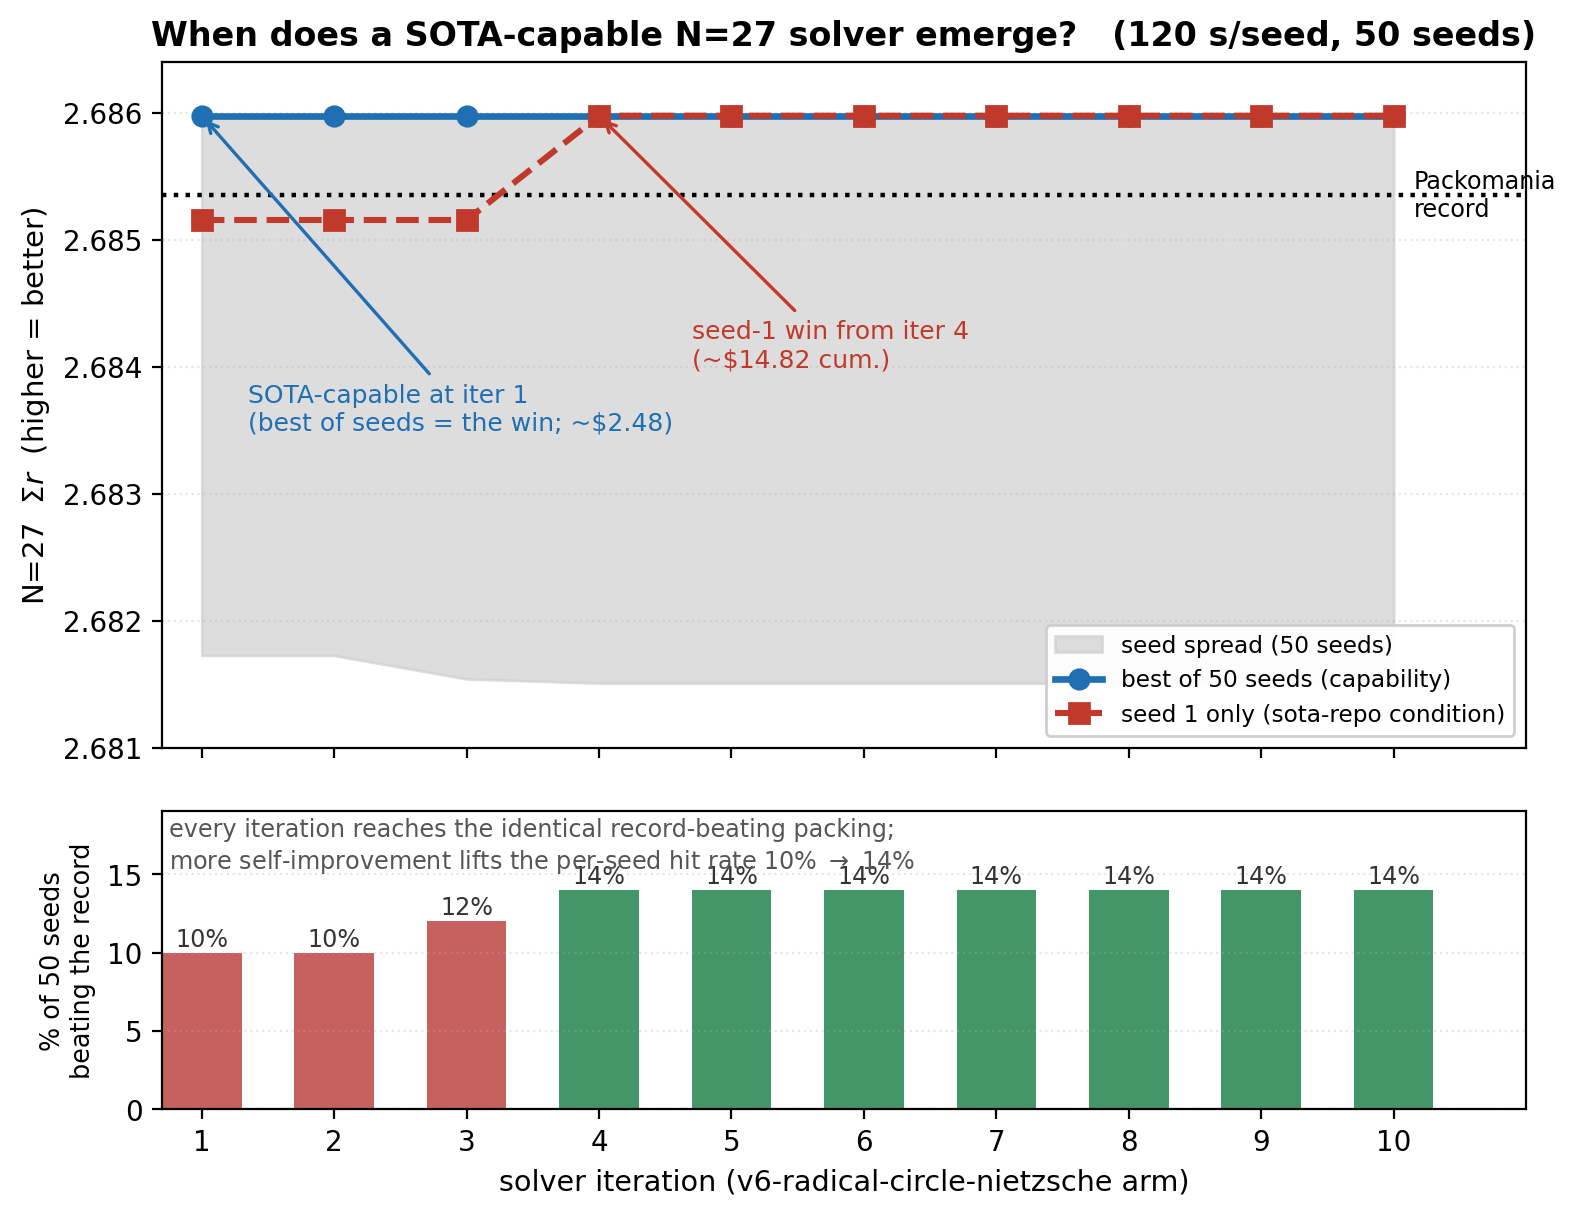
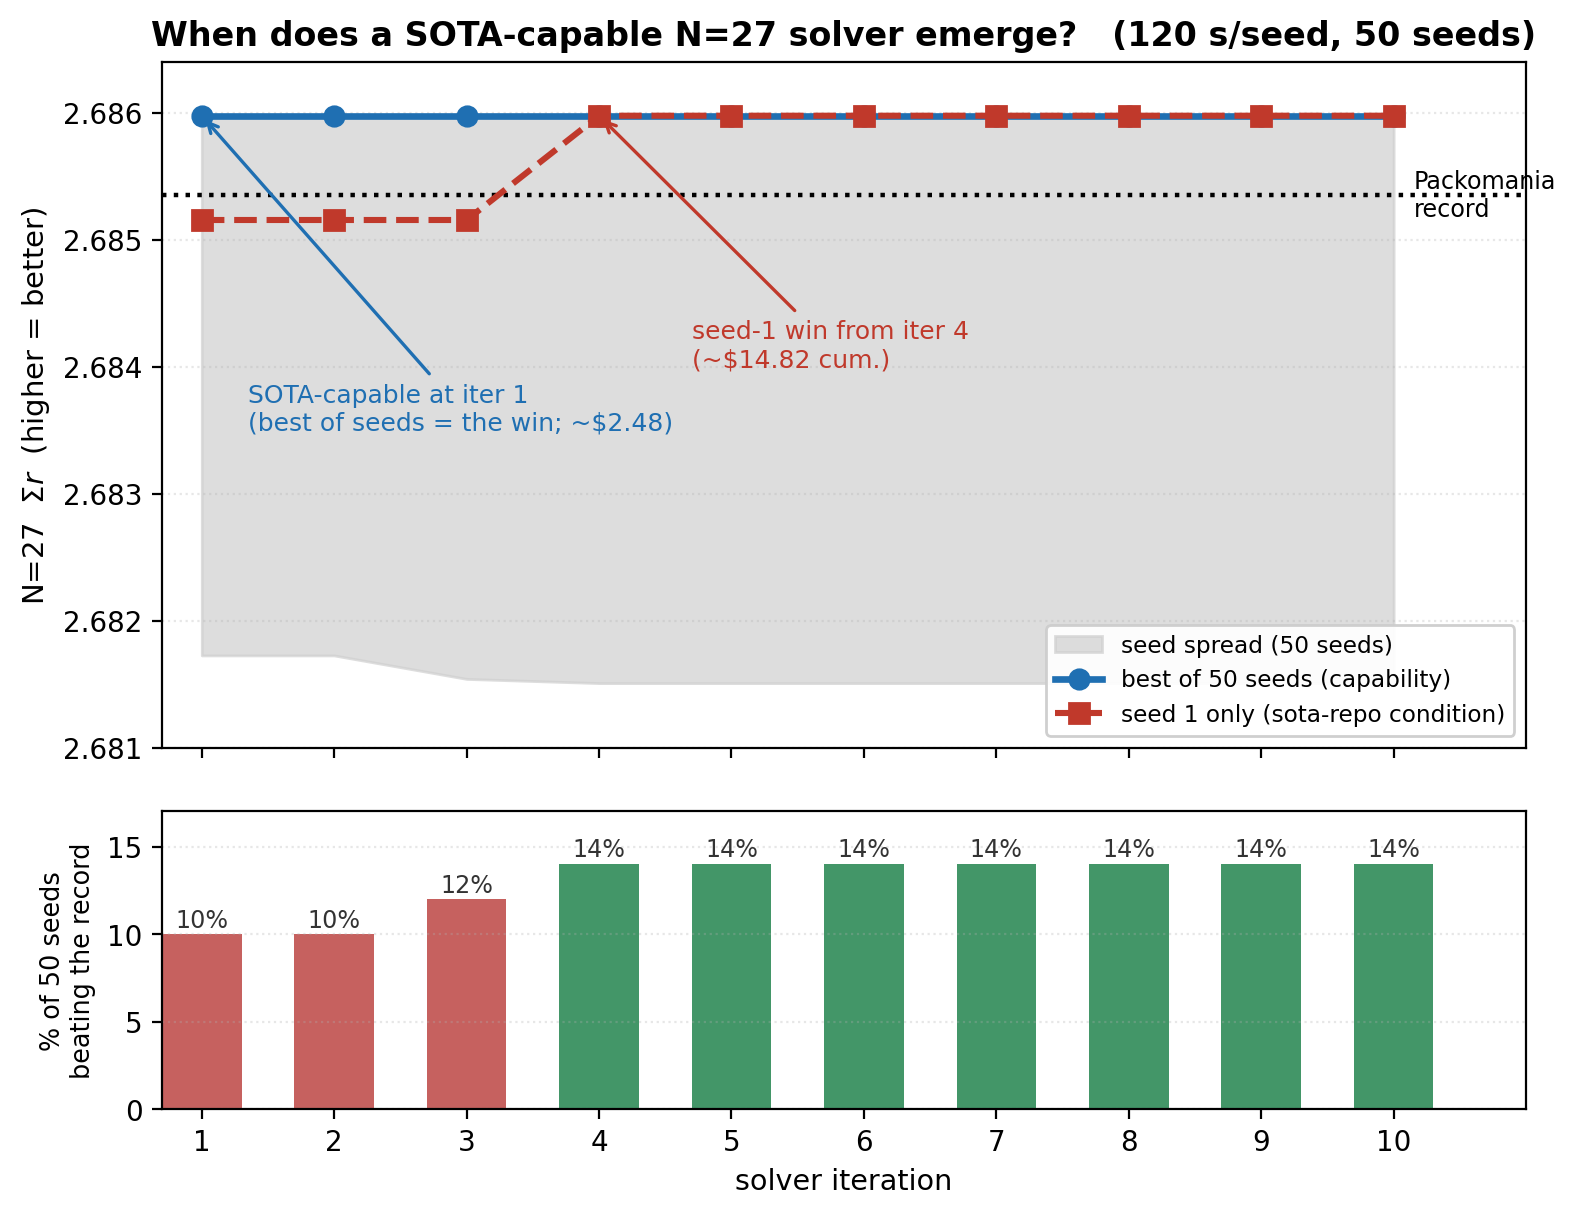
Figure 2: drop the 'nietzsche' arm codename from the x-axis (now just 'solver iteration') and remove the bottom subtitle text

diff --git a/writeup/make_figs.py b/writeup/make_figs.py
@@ -84,14 +84,10 @@ axA.grid(True, axis="y", ls=":", alpha=0.3)
 axB.bar(it, hit, width=0.6, color=["#2e8b57" if h >= 14 else "#c0504d" for h in hit], alpha=0.9)
 for x, h in zip(it, hit):
     axB.text(x, h + 0.4, f"{h}%", ha="center", fontsize=8.6, color="#333333")
-axB.set_ylim(0, 19)
+axB.set_ylim(0, 17)
 axB.set_xticks(it)
 axB.set_ylabel("% of 50 seeds\nbeating the record", fontsize=9.2)
-axB.set_xlabel("solver iteration (v6-radical-circle-nietzsche arm)", fontsize=10.3)
-axB.text(0.75, 18.6,
-         "every iteration reaches the identical record-beating packing;\n"
-         "more self-improvement lifts the per-seed hit rate 10% $\\rightarrow$ 14%",
-         fontsize=8.6, color="#555555", va="top", linespacing=1.3)
+axB.set_xlabel("solver iteration", fontsize=10.3)
 axB.grid(True, axis="y", ls=":", alpha=0.3)
 plt.tight_layout()
 plt.savefig(f"{OUT}/fig3_emergence.png", dpi=200, bbox_inches="tight")
